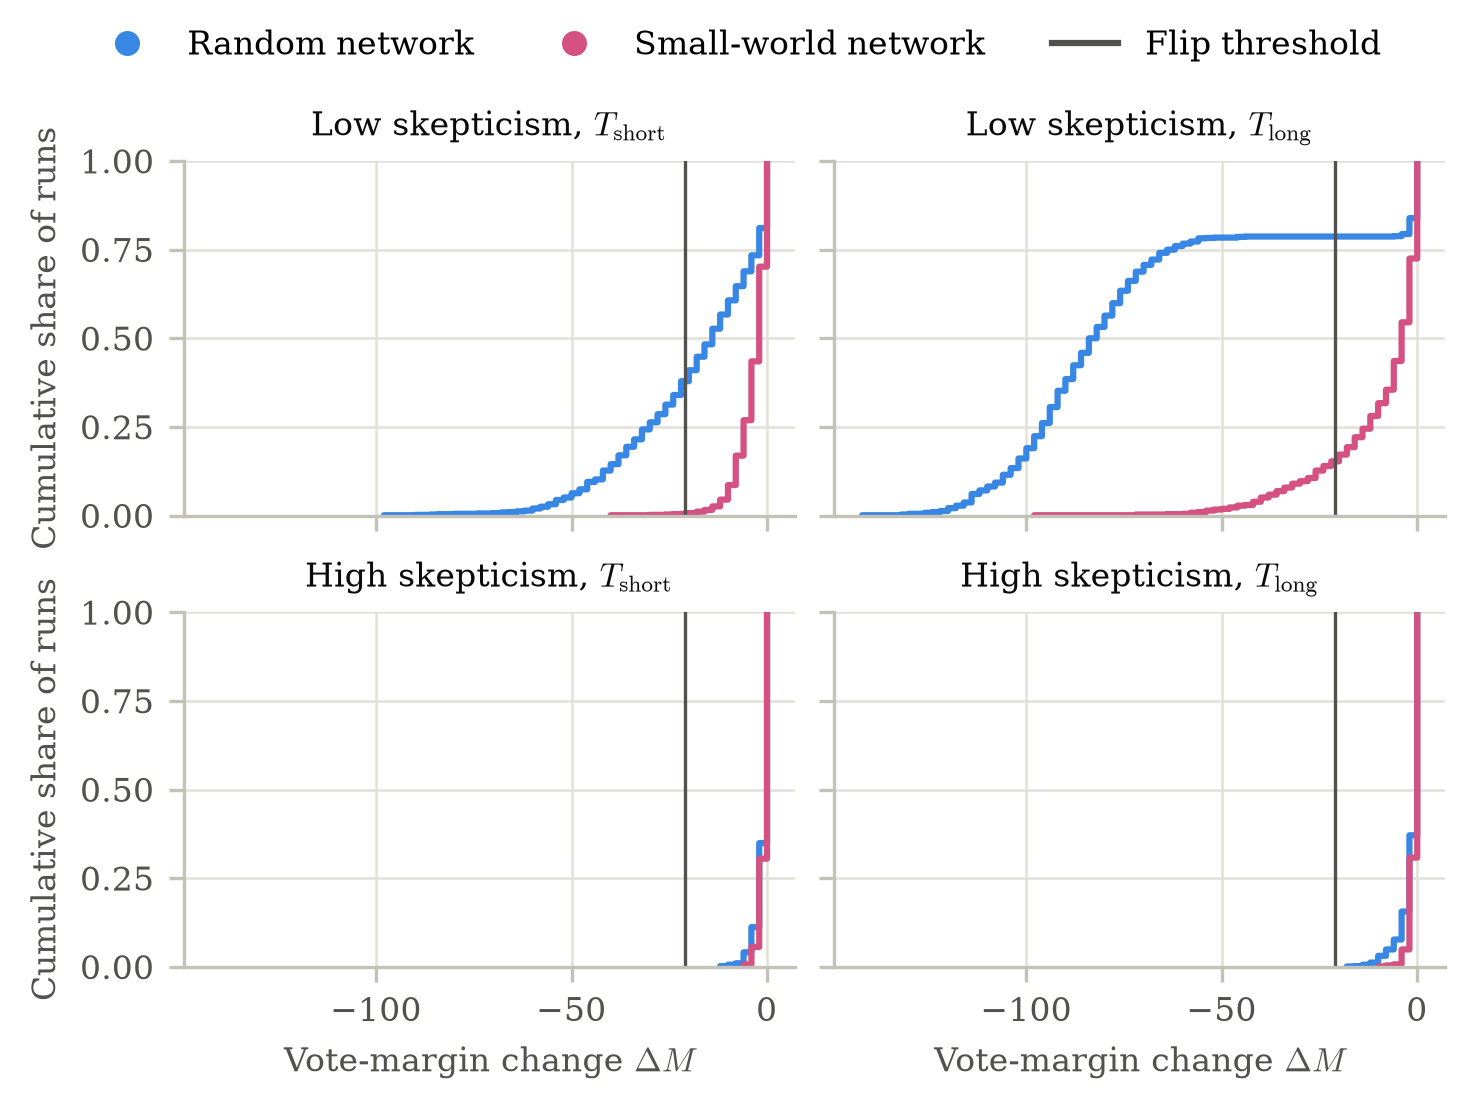
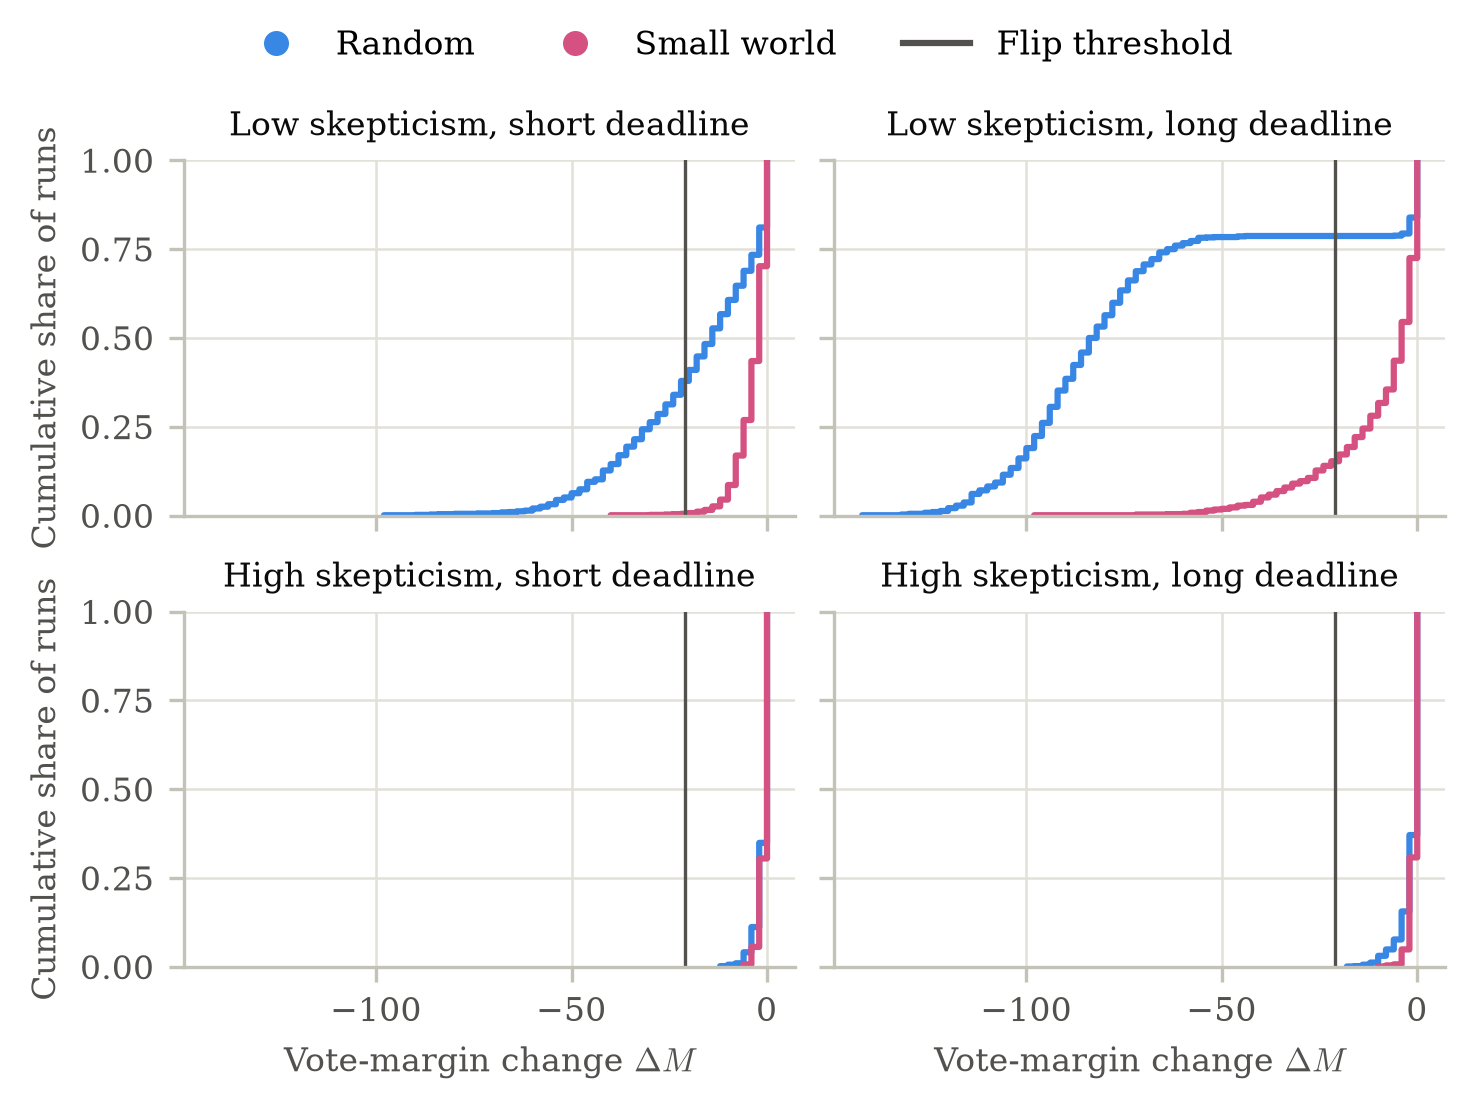
Update figure labels

diff --git a/src/dmas/plotting/style.py b/src/dmas/plotting/style.py
@@ -35,16 +35,16 @@ MARKER_SIZE = 5
 
 TOPOLOGY_COLORS = {Topology.RANDOM: "#3987e5", Topology.SMALL_WORLD: "#d55181"}
 TOPOLOGY_NAMES = {
-    Topology.RANDOM: "Random network",
-    Topology.SMALL_WORLD: "Small-world network",
+    Topology.RANDOM: "Random",
+    Topology.SMALL_WORLD: "Small world",
 }
 SKEPTICISM_NAMES = {
     Skepticism.LOW: "Low skepticism",
     Skepticism.HIGH: "High skepticism",
 }
 VOTING_TIME_NAMES = {
-    VotingTime.SHORT: r"$T_{\mathrm{short}}$",
-    VotingTime.LONG: r"$T_{\mathrm{long}}$",
+    VotingTime.SHORT: "Short",
+    VotingTime.LONG: "Long",
 }
 
 _DPI = 300
@@ -90,7 +90,7 @@ def cell_label(skepticism: str, voting_time: str) -> str:
     """Name of a skepticism x voting-time cell, e.g. for panel titles."""
     return (
         f"{SKEPTICISM_NAMES[Skepticism(skepticism)]}, "
-        f"{VOTING_TIME_NAMES[VotingTime(voting_time)]}"
+        f"{VOTING_TIME_NAMES[VotingTime(voting_time)].lower()} deadline"
     )
 
 

diff --git a/tests/test_plotting.py b/tests/test_plotting.py
@@ -114,9 +114,5 @@ def test_interval_errors_are_never_negative():
 
 
 def test_cell_label():
-    assert (
-        cell_label("low", "short") == r"Low skepticism, $T_{\mathrm{short}}$"
-    )
-    assert (
-        cell_label("high", "long") == r"High skepticism, $T_{\mathrm{long}}$"
-    )
+    assert cell_label("low", "short") == "Low skepticism, short deadline"
+    assert cell_label("high", "long") == "High skepticism, long deadline"

diff --git a/src/dmas/plotting/results.py b/src/dmas/plotting/results.py
@@ -183,7 +183,7 @@ def _voting_time_handles() -> list[Line2D]:
             marker=_VOTING_TIME_MARKERS[voting_time],
             markersize=MARKER_SIZE,
             color=SECONDARY_INK,
-            label=f"Vote at {VOTING_TIME_NAMES[voting_time]}",
+            label=f"{VOTING_TIME_NAMES[voting_time]} deadline",
         )
         for voting_time in VotingTime
     ]
